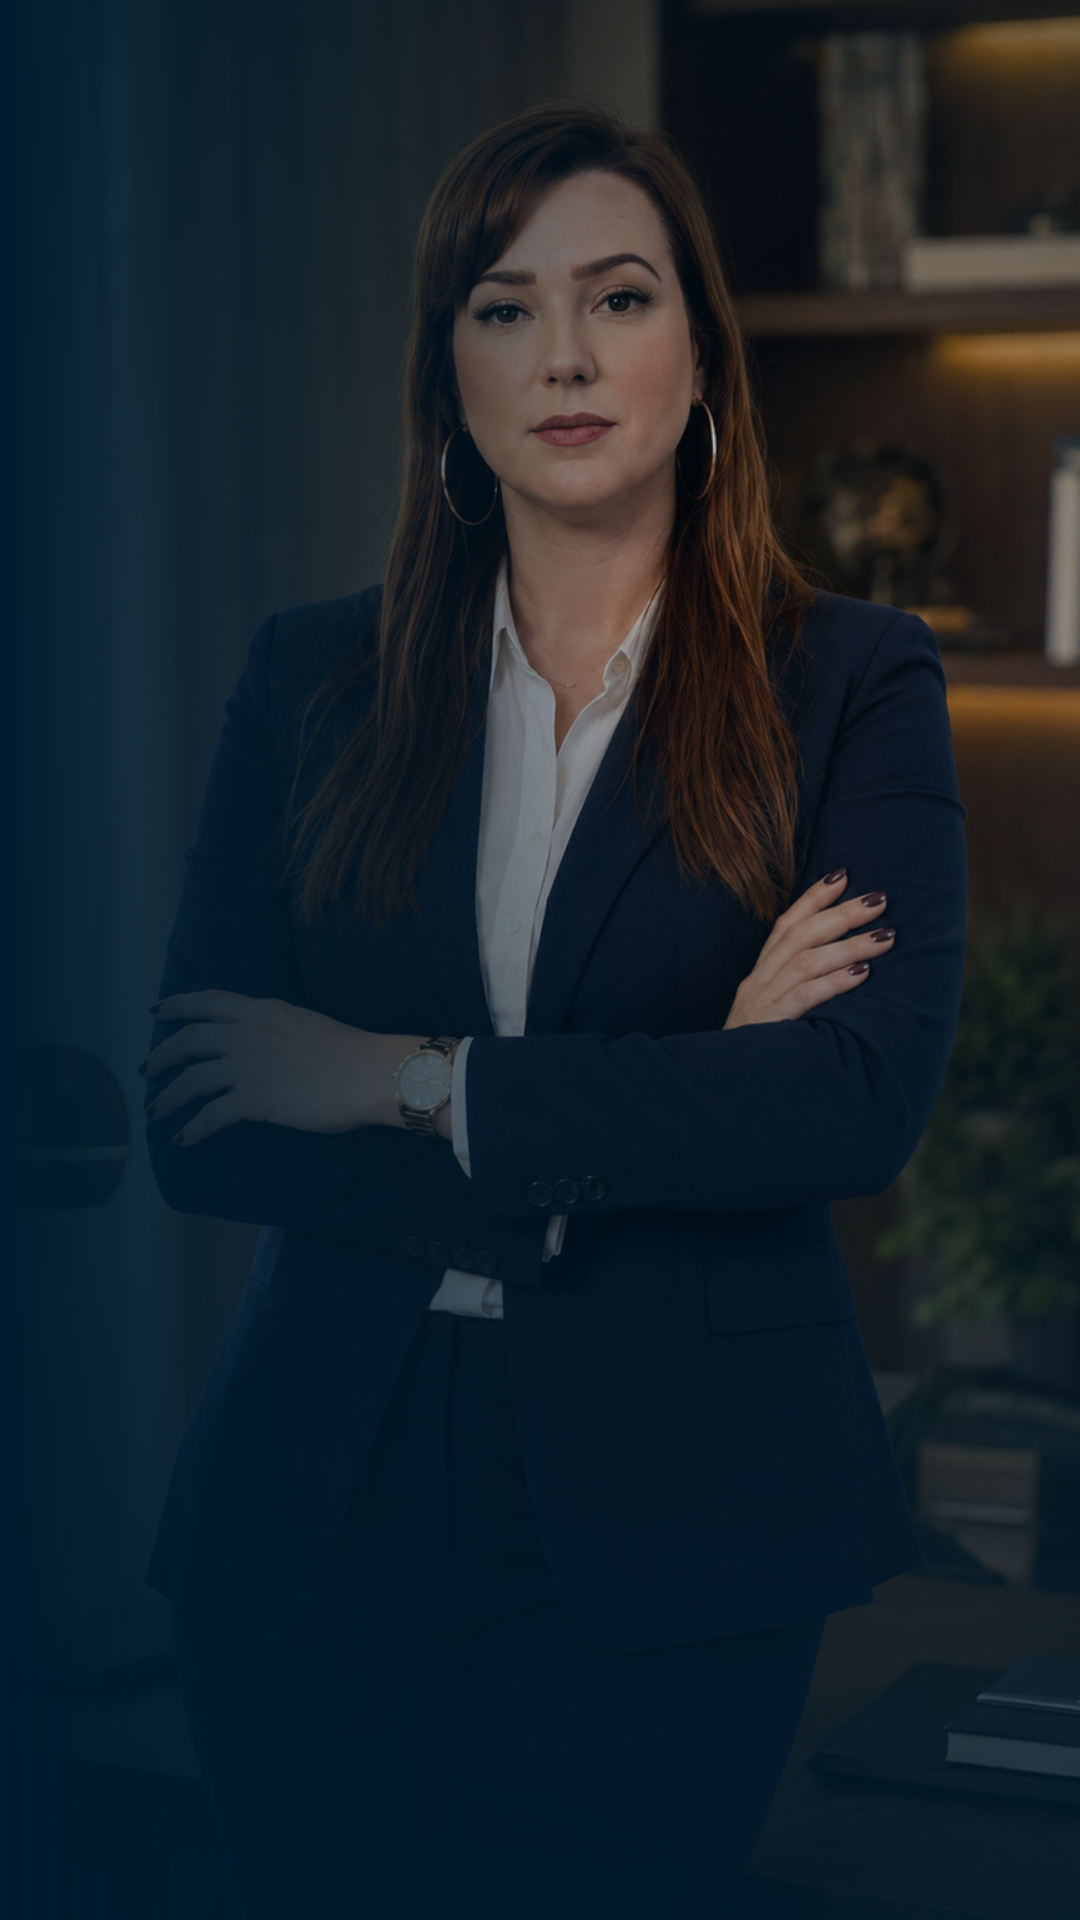
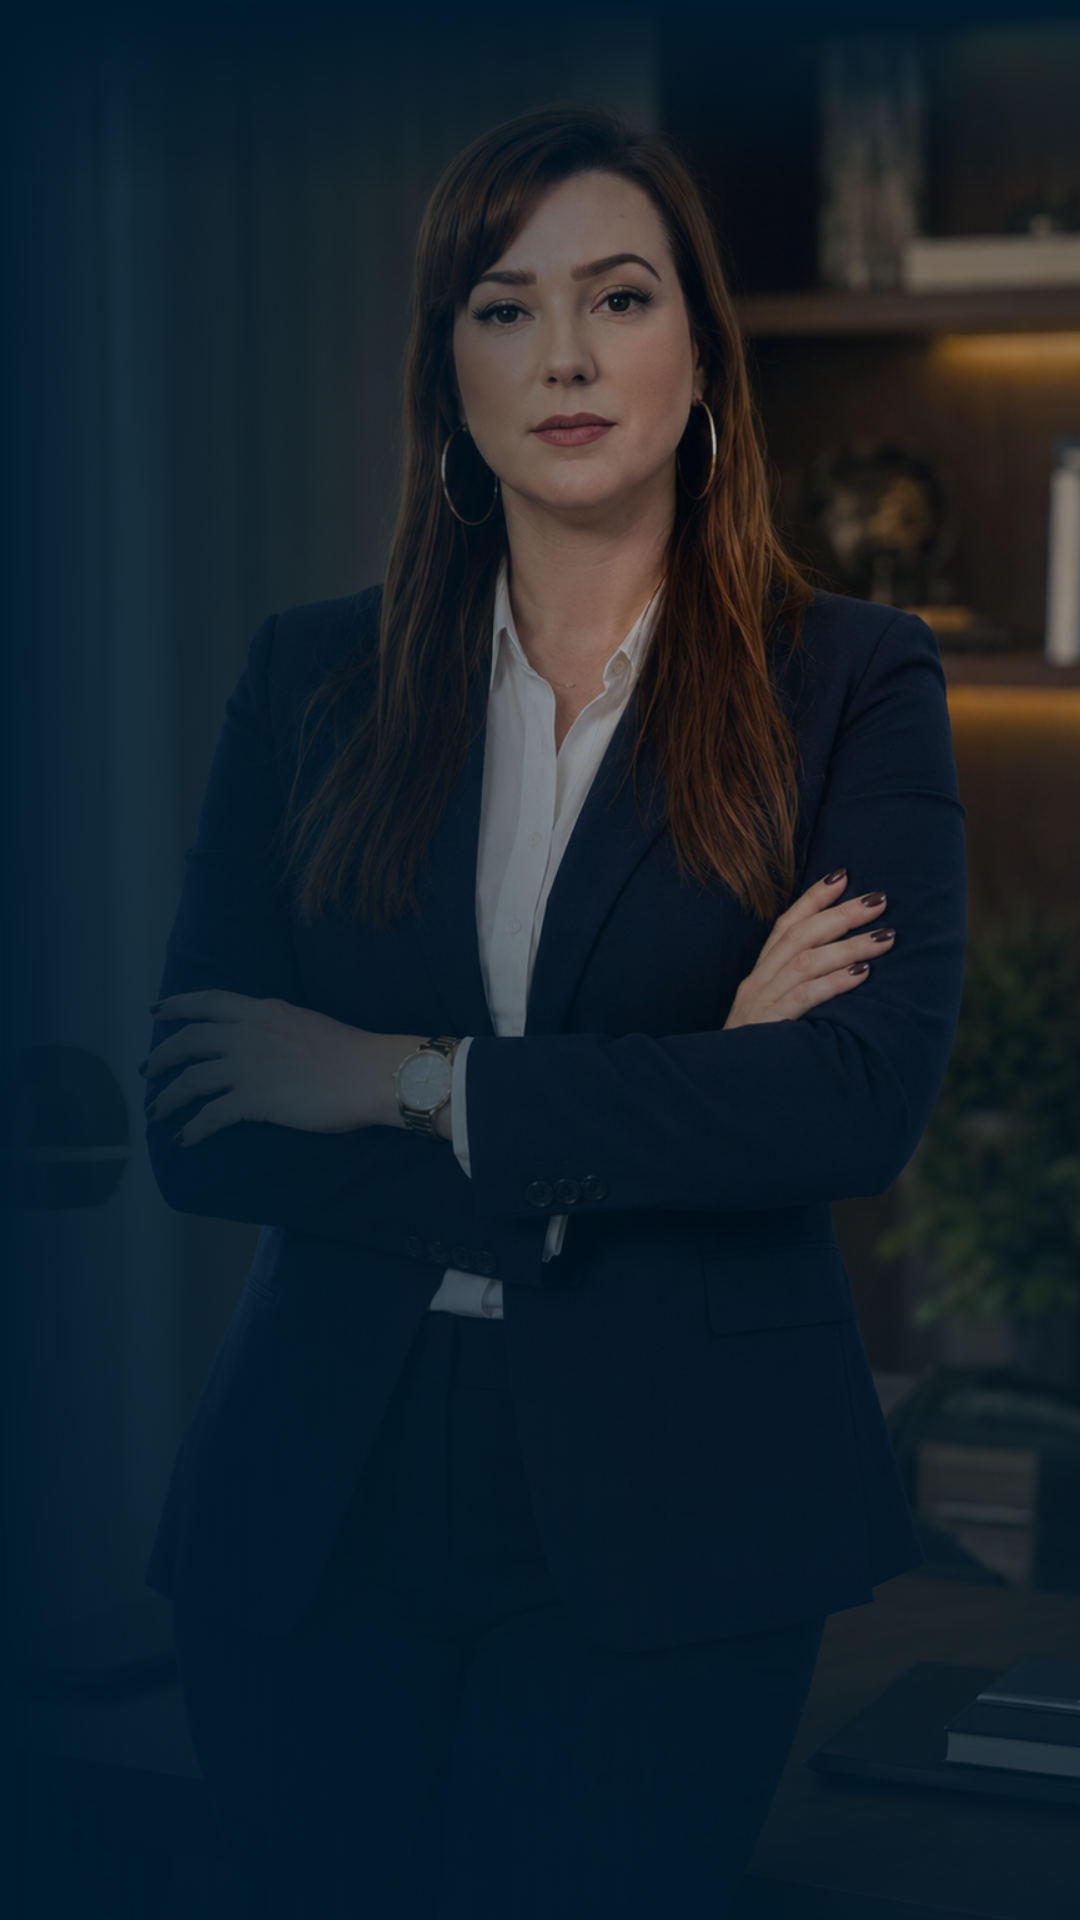
first commit

Changed region(s): [[0.7639, 0.0, 1.0, 0.0625], [0.5194, 0.0, 0.6111, 0.0625]]

diff --git a/src/styles/index.css b/src/styles/index.css
@@ -23,6 +23,7 @@
       transparent 60%
     ),
     var(--color-navy);
+    
   z-index: -1;
 }
 
@@ -218,16 +219,23 @@
   .publico__grid {
     grid-template-columns: 1fr;
   }
+
+  .hero__bg {
+    background:
+    var(--color-navy);
+  }
+
   .hero__title {
-    margin: 1.2rem 0 1.6rem;
+    margin: 1.2rem 5rem 1.6rem 0;
+    font-size: 1.8rem;
   }
   .hero__image {
     position: absolute;
     z-index: -1;
-    right: 0;
+    right: -5rem;
     bottom: 0;
-    top: 10;
-    max-width: 20rem;
+    top: 5rem;
+    max-width: 27rem;
     height: auto;
     object-fit: cover;
   }

diff --git a/src/components/WhatsappButton.jsx b/src/components/WhatsappButton.jsx
@@ -3,7 +3,7 @@ import '../styles/WhatsappButton.css'
 export default function WhatsappButton() {
   return (
     <a
-      href="https://wa.me/5500000000000?text=Ol%C3%A1%2C%20Dayane!%20Quero%20estruturar%20o%20meu%20processo%20comercial."
+      href="https://wa.me/+5513996805974?text=Ol%C3%A1%2C%20Dayane!%20Quero%20estruturar%20o%20meu%20processo%20comercial."
       target="_blank"
       rel="noreferrer"
       className="whatsapp-fab"